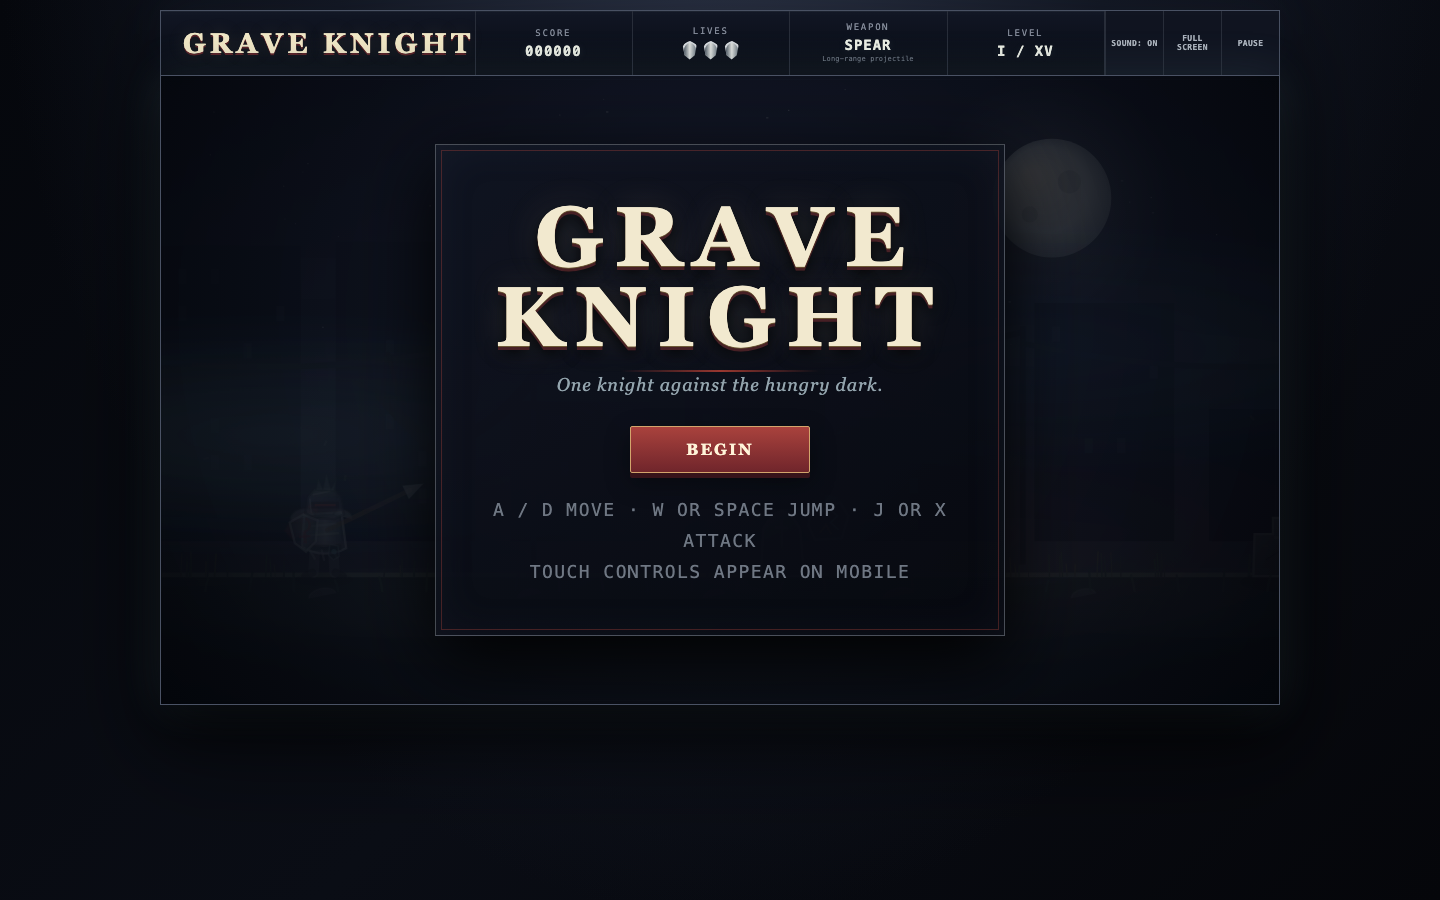
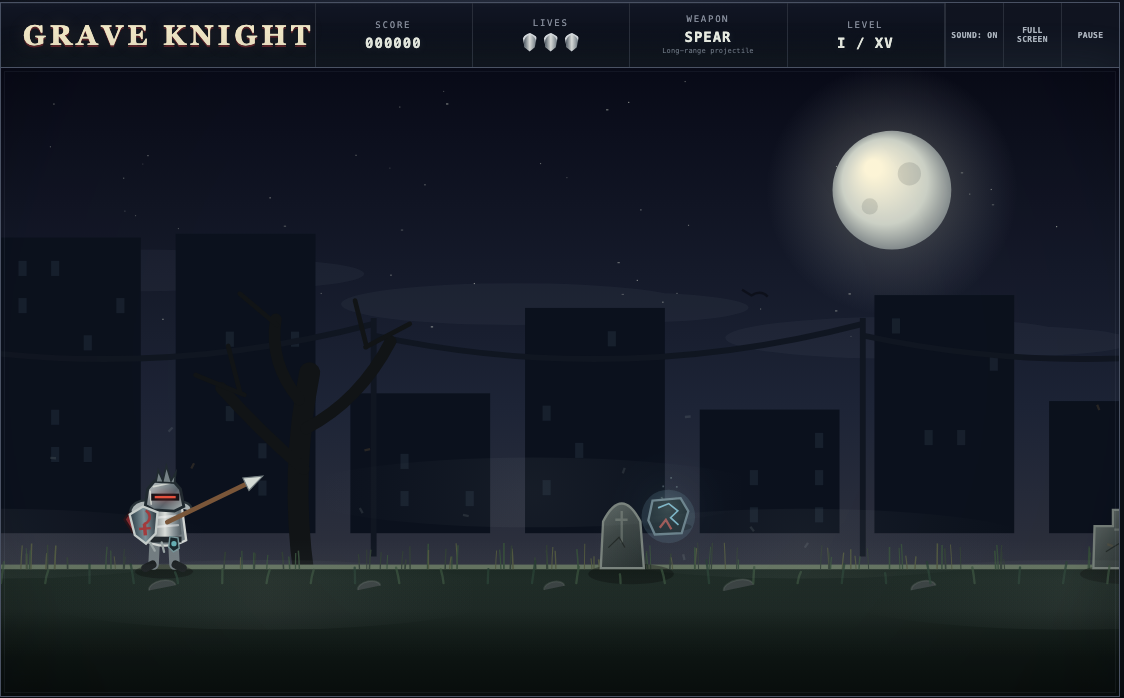
Снимки и увеличаване

diff --git a/assets/js/main.js b/assets/js/main.js
@@ -2839,6 +2839,72 @@
     }
   }
 
+  function initShotLightbox() {
+    const shots = Array.from(document.querySelectorAll(".project-shot"));
+    if (!shots.length) return;
+
+    const box = document.createElement("div");
+    box.className = "shot-lightbox";
+    box.setAttribute("aria-hidden", "true");
+    box.setAttribute("role", "dialog");
+    box.setAttribute("aria-modal", "true");
+    box.innerHTML =
+      '<button class="shot-lightbox-close" type="button" aria-label="Затвори">&times;</button>' +
+      '<img alt=""><p class="shot-lightbox-caption"></p>';
+    document.body.appendChild(box);
+
+    const img = box.querySelector("img");
+    const caption = box.querySelector(".shot-lightbox-caption");
+    const closeBtn = box.querySelector(".shot-lightbox-close");
+    let opener = null;
+
+    function open(source) {
+      const full = source.querySelector("img");
+      if (!full) return;
+      opener = source;
+      img.src = full.currentSrc || full.src;
+      img.alt = full.alt || "";
+      caption.textContent = full.alt || "";
+      box.classList.add("is-open");
+      box.setAttribute("aria-hidden", "false");
+      document.body.classList.add("shot-open");
+      closeBtn.focus();
+    }
+
+    function close() {
+      if (!box.classList.contains("is-open")) return;
+      box.classList.remove("is-open");
+      box.setAttribute("aria-hidden", "true");
+      document.body.classList.remove("shot-open");
+      img.removeAttribute("src");
+      if (opener && typeof opener.focus === "function") opener.focus();
+      opener = null;
+    }
+
+    shots.forEach((shot) => {
+      shot.setAttribute("tabindex", "0");
+      shot.setAttribute("role", "button");
+      const label = shot.querySelector("img");
+      shot.setAttribute("aria-label",
+        (label && label.alt ? label.alt + " - " : "") + "увеличи снимката");
+      shot.addEventListener("click", () => open(shot));
+      shot.addEventListener("keydown", (event) => {
+        if (event.key === "Enter" || event.key === " ") {
+          event.preventDefault();
+          open(shot);
+        }
+      });
+    });
+
+    closeBtn.addEventListener("click", close);
+    box.addEventListener("click", (event) => {
+      if (event.target === box || event.target === img) close();
+    });
+    document.addEventListener("keydown", (event) => {
+      if (event.key === "Escape") close();
+    });
+  }
+
   function initReveals() {
     const revealItems = document.querySelectorAll(".reveal-section, .reveal-item");
     let revealFrame = null;
@@ -3074,6 +3140,7 @@
   setHeaderState();
   applyTranslations(currentLanguage);
   initSolutionSwitcher();
+  initShotLightbox();
   initReveals();
   initActiveNavigation();
   initProjectIntakeFromUrl();

diff --git a/index.html b/index.html
@@ -585,7 +585,7 @@
 
           <div class="project-grid">
         <article class="project-card reveal-item">
-          <div class="project-shot"><img src="assets/images/projects/grave-knight.png" loading="lazy" alt="Grave Knight" width="1440" height="900"></div>
+          <div class="project-shot"><img src="assets/images/projects/grave-knight.png" loading="lazy" alt="Grave Knight" width="1124" height="698"></div>
           <div class="project-copy">
             <p class="project-label" data-i18n="projects.items.graveknight.label">Поръчкова разработка</p>
             <h3>Grave Knight</h3>
@@ -651,7 +651,7 @@
           </div>
         </article>
         <article class="project-card reveal-item">
-          <div class="project-mockup abstract-mockup" aria-hidden="true"><div class="preview-window"><div class="preview-bar"><span></span><span></span><span></span></div><svg viewBox="0 0 760 460" focusable="false"><rect x="70" y="70" width="240" height="320" rx="8"></rect><path d="M104 120h172M104 156h140M104 192h172M104 228h96"></path><path d="M340 230h80"></path><rect x="450" y="120" width="240" height="90" rx="8"></rect><path d="M482 152h120M482 180h72"></path><rect x="450" y="260" width="240" height="130" rx="8"></rect><path d="M482 300h176M482 336h96M482 364h140"></path></svg></div></div>
+          <div class="project-shot"><img src="assets/images/projects/oblast.png" loading="lazy" alt="Област · Демо" width="1600" height="1100"></div>
           <div class="project-copy">
             <p class="project-label" data-i18n="projects.items.oblast.label">Частна поръчка</p>
             <h3>Област · Демо</h3>

diff --git a/assets/css/style.css b/assets/css/style.css
@@ -4340,3 +4340,22 @@ h1 {
 .modal-links a{color:var(--copper-soft);text-decoration:none;font-weight:600;
   border-bottom:1px solid rgba(216,182,140,.4);padding-bottom:2px}
 .modal-links a:hover{color:var(--ivory);border-bottom-color:var(--ivory)}
+
+/* ── увеличаване на екранните снимки ── */
+.project-shot{cursor:zoom-in}
+.project-shot:focus-visible{outline:2px solid var(--copper);outline-offset:3px}
+.shot-lightbox{position:fixed;inset:0;z-index:9000;display:none;
+  align-items:center;justify-content:center;padding:clamp(16px,4vw,56px);
+  background:rgba(9,8,7,.94);backdrop-filter:blur(6px)}
+.shot-lightbox.is-open{display:flex}
+.shot-lightbox img{max-width:100%;max-height:100%;object-fit:contain;
+  border-radius:10px;border:1px solid var(--line-dark);box-shadow:var(--shadow)}
+.shot-lightbox-close{position:absolute;top:clamp(12px,3vw,26px);right:clamp(12px,3vw,26px);
+  width:44px;height:44px;border-radius:50%;cursor:pointer;
+  background:rgba(244,239,228,.1);border:1px solid var(--line-dark);color:var(--ivory);
+  font-size:22px;line-height:1;display:flex;align-items:center;justify-content:center}
+.shot-lightbox-close:hover{background:rgba(244,239,228,.2)}
+.shot-lightbox-caption{position:absolute;left:0;right:0;bottom:clamp(10px,3vw,24px);
+  text-align:center;color:var(--muted);font-size:13px;padding:0 20px}
+body.shot-open{overflow:hidden}
+@media (prefers-reduced-motion: reduce){.shot-lightbox{backdrop-filter:none}}
